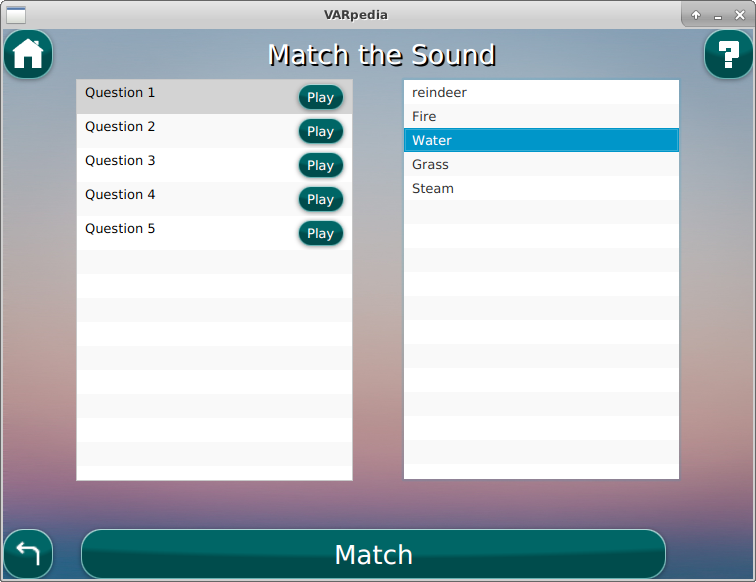
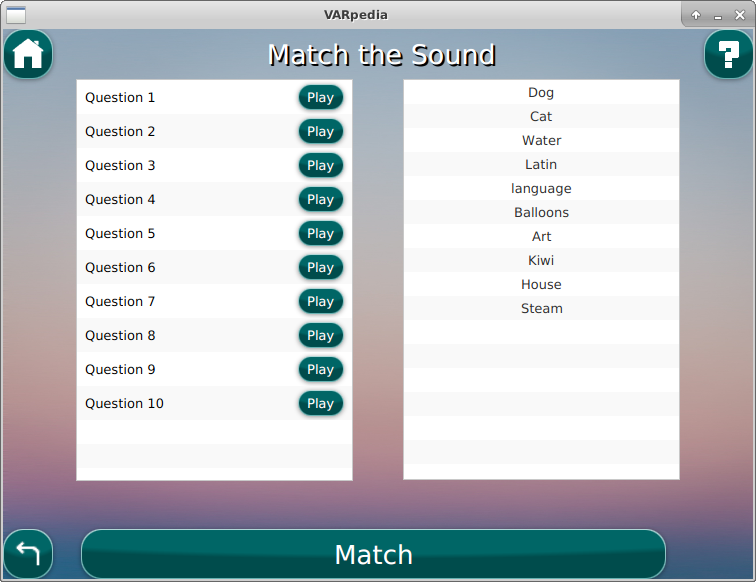
Fixing layouts

diff --git a/Application/src/application/app/Main.java b/Application/src/application/app/Main.java
@@ -5,7 +5,7 @@ import javafx.application.Application;
 import javafx.fxml.FXMLLoader;
 import javafx.stage.Stage;
 import javafx.scene.Scene;
-import javafx.scene.layout.BorderPane;
+import javafx.scene.Parent;
 
 /**
  * SoftEng 206 Assignment 3: VARpedia
@@ -30,8 +30,8 @@ public class Main extends Application {
 			
 			//load the menu on startup
 			FXMLLoader loader = new FXMLLoader();
-			loader.setLocation(getClass().getResource("/application/view/Menu.fxml"));
-			BorderPane root = (BorderPane)loader.load();
+			loader.setLocation(getClass().getResource("/application/view/Menu2.fxml"));
+			Parent root = loader.load();
 			
 			Scene scene = new Scene(root,750,550);
 			scene.getStylesheets().add("/application/app/application.css");

diff --git a/Application/src/application/controllers/Menu.java b/Application/src/application/controllers/Menu.java
@@ -30,8 +30,8 @@ public class Menu extends Controller implements Initializable {
 	@FXML private Button _videos;
 	@FXML private Button _quiz;
 	@FXML private Label _warning;
-	// TODO change help button to top right
-	@FXML private void openHelp() {System.out.println("Deprecated: To be removed");}
+
+	@FXML private void openHelp() {System.out.println("To be implemented!");}
 	@FXML private void openSearch() {switchTo(_help.getScene(), getClass().getResource(_PATH+"Search2.fxml"));}
 	@FXML private void openVideos() {switchTo(_help.getScene(), getClass().getResource(_PATH+"VideoList.fxml"));}
 	@FXML private void openQuiz() {switchTo(_quiz.getScene(), getClass().getResource(_PATH+"QuizSettings.fxml"));}

diff --git a/Application/src/application/controllers/AudioMatch.java b/Application/src/application/controllers/AudioMatch.java
@@ -19,6 +19,7 @@ import javafx.event.EventHandler;
 import javafx.fxml.FXML;
 import javafx.fxml.FXMLLoader;
 import javafx.fxml.Initializable;
+import javafx.geometry.Pos;
 import javafx.scene.Scene;
 import javafx.scene.control.Button;
 import javafx.scene.control.Label;
@@ -238,6 +239,7 @@ public class AudioMatch extends Controller implements Initializable{
 			super();
 			hbox.getChildren().addAll(label, pane, playBtn);
 			HBox.setHgrow(pane, Priority.ALWAYS);
+	        hbox.setAlignment(Pos.CENTER);
 			_playBtns.add(playBtn);
 
 			playBtn.setOnAction(new EventHandler<ActionEvent>() {

diff --git a/Application/src/application/controllers/VideoMatch.java b/Application/src/application/controllers/VideoMatch.java
@@ -176,6 +176,7 @@ public class VideoMatch extends Controller implements Initializable {
 			super();
 			_hbox.getChildren().addAll(_mediaView, _pane, _playBtn);
             HBox.setHgrow(_pane, Priority.ALWAYS);
+            _hbox.setAlignment(Pos.CENTER);
             _playBtns.add(_playBtn);
 			//setContentDisplay(ContentDisplay.GRAPHIC_ONLY);
 			setAlignment(Pos.CENTER);
